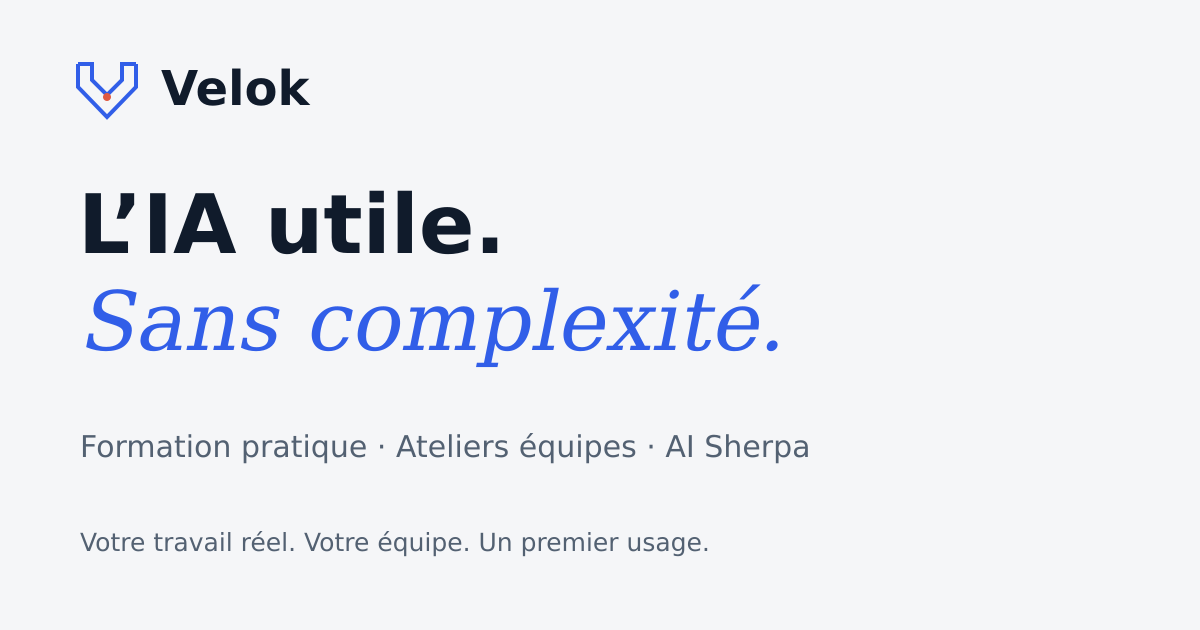
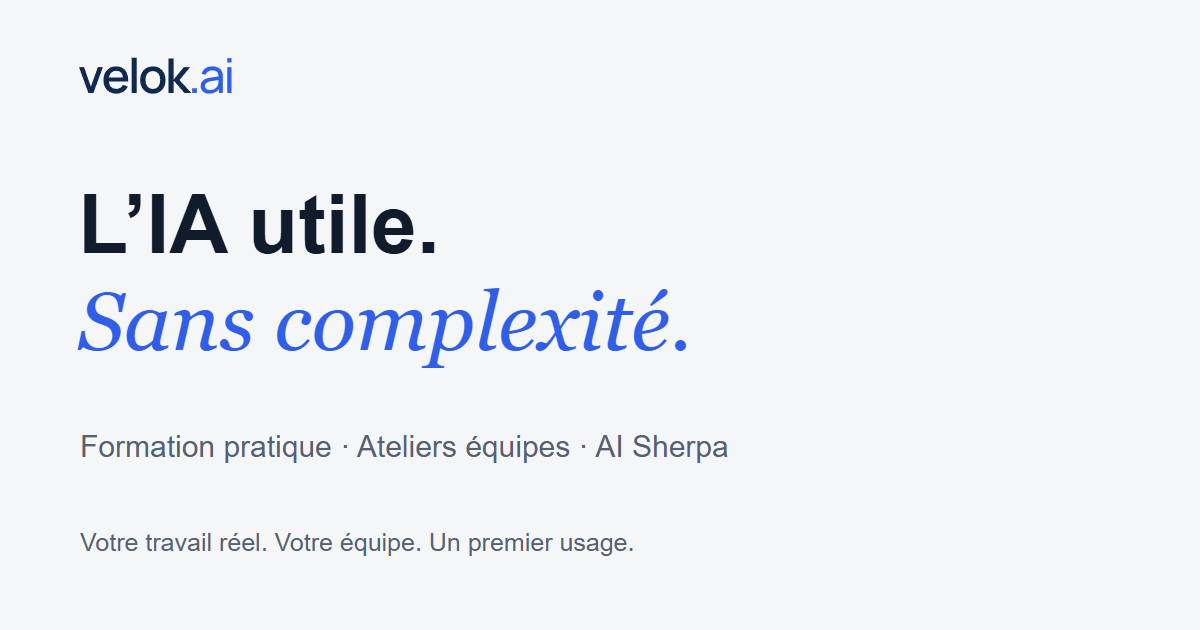
Apply approved velok.ai wordmark across French and English website

diff --git a/app/globals.css b/app/globals.css
@@ -55,14 +55,16 @@ a { color: inherit; text-decoration: none; }
   letter-spacing: -0.04em;
   width: max-content;
 }
-.brand-mark { height: 34px; width: 34px; }
-.brand-mark path {
-  stroke: var(--signal-blue);
-  stroke-linecap: round;
-  stroke-linejoin: round;
-  stroke-width: 3.1;
+.velok-wordmark {
+  color: var(--midnight);
+  font-family: 'Manrope Variable', sans-serif;
+  font-weight: 600;
+  letter-spacing: -0.048em;
+  line-height: 1;
+  white-space: nowrap;
 }
-.brand-mark circle { fill: var(--ember); }
+.velok-wordmark-domain { color: var(--signal-blue); font-weight: 500; }
+.brand-light .velok-wordmark { color: #fff; }
 .primary-nav {
   align-items: center;
   display: flex;
@@ -556,7 +558,6 @@ h1 em {
 .final-cta small { color: rgb(255 255 255 / 66%); display: block; font-size: 0.76rem; margin-top: 18px; }
 .site-footer { background: var(--graphite); color: white; padding: 68px max(32px, calc((100vw - min(1320px, calc(100vw - 64px))) / 2)) 30px; }
 .footer-lead { align-items: start; display: flex; justify-content: space-between; }
-.brand-light .brand-mark path { stroke: #9fb7ff; }
 .footer-lead p { color: rgb(255 255 255 / 60%); font-family: 'Source Serif 4 Variable', Georgia, serif; font-size: 1.35rem; margin: 0; }
 .site-footer nav { border-bottom: 1px solid rgb(255 255 255 / 14%); border-top: 1px solid rgb(255 255 255 / 14%); display: grid; gap: 20px; grid-template-columns: repeat(3, 1fr); margin-top: 58px; padding: 30px 0; }
 .site-footer nav a { color: rgb(255 255 255 / 72%); font-size: 0.78rem; }

diff --git a/components/site-shell.tsx b/components/site-shell.tsx
@@ -1,3 +1,4 @@
+import { VelokWordmark } from '@/components/velok-wordmark';
 import { LanguageSwitch } from '@/components/language-switch';
 import Image from 'next/image';
 import Link from 'next/link';
@@ -6,20 +7,6 @@ import type { ReactNode } from 'react';
 export const auditMailto =
   'mailto:david@velok.ai?subject=Audit%20des%20op%C3%A9rations%20%E2%80%94%20Velok';
 
-export function VelokMark() {
-  return (
-    <svg
-      aria-hidden="true"
-      className="brand-mark"
-      viewBox="0 0 48 48"
-      fill="none"
-    >
-      <path d="M8 9v12.5L24 38l16-16.5V9" />
-      <path d="M8 9h8v9l8 8 8-8V9h8" />
-      <circle cx="24" cy="27" r="2.4" />
-    </svg>
-  );
-}
 
 export function VisualElement({ name }: { name: string }) {
   return (
@@ -276,8 +263,7 @@ export function SiteHeader() {
       </div>
       <header className="site-header">
         <Link className="brand" href="/" aria-label="Velok — accueil">
-          <VelokMark />
-          <span>Velok</span>
+          <VelokWordmark />
         </Link>
 
         <nav className="primary-nav" aria-label="Navigation principale">
@@ -329,8 +315,7 @@ export function SiteFooter() {
           href="/"
           aria-label="Velok — accueil"
         >
-          <VelokMark />
-          <span>Velok</span>
+          <VelokWordmark />
         </Link>
         <p>
           L’IA utile.

diff --git a/components/en/site-shell.tsx b/components/en/site-shell.tsx
@@ -1,3 +1,4 @@
+import { VelokWordmark } from '@/components/velok-wordmark';
 import { LanguageSwitch } from '@/components/language-switch';
 import Image from 'next/image';
 import Link from 'next/link';
@@ -6,20 +7,6 @@ import type { ReactNode } from 'react';
 export const auditMailto =
   'mailto:david@velok.ai?subject=Operations%20audit%20%E2%80%94%20Velok';
 
-export function VelokMark() {
-  return (
-    <svg
-      aria-hidden="true"
-      className="brand-mark"
-      viewBox="0 0 48 48"
-      fill="none"
-    >
-      <path d="M8 9v12.5L24 38l16-16.5V9" />
-      <path d="M8 9h8v9l8 8 8-8V9h8" />
-      <circle cx="24" cy="27" r="2.4" />
-    </svg>
-  );
-}
 
 export function VisualElement({ name }: { name: string }) {
   return (
@@ -276,8 +263,7 @@ export function SiteHeader() {
       </div>
       <header className="site-header">
         <Link className="brand" href="/en" aria-label="Velok — home">
-          <VelokMark />
-          <span>Velok</span>
+          <VelokWordmark />
         </Link>
 
         <nav className="primary-nav" aria-label="Main navigation">
@@ -329,8 +315,7 @@ export function SiteFooter() {
           href="/en"
           aria-label="Velok — home"
         >
-          <VelokMark />
-          <span>Velok</span>
+          <VelokWordmark />
         </Link>
         <p>
           Useful AI.

diff --git a/components/velok-wordmark.tsx b/components/velok-wordmark.tsx
@@ -1,0 +1,7 @@
+export function VelokWordmark() {
+  return (
+    <span className="velok-wordmark" aria-hidden="true">
+      velok<span className="velok-wordmark-domain">.ai</span>
+    </span>
+  );
+}

diff --git a/README.md b/README.md
@@ -48,6 +48,9 @@ Pull requests get a preview URL in the PR checks. Environment variables live in 
 The website V2 approved on 5 October 2026 uses ivory/navy/blue styling in app/globals.css
 and the 3D workplace illustrations in public/brand/v2/. Shared brand rules and positioning
 remain in github.com/Velok-ai/shared, folder 06-brand.
+The approved lowercase velok.ai wordmark is shared by both languages through
+components/velok-wordmark.tsx. Outlined SVG and transparent PNG assets are in public/brand/logo;
+the favicon and social cards use the same approved typography and colours.
 
 ## Languages
 

diff --git a/public/brand/logo/README.md b/public/brand/logo/README.md
@@ -1,0 +1,11 @@
+# Approved velok.ai wordmark
+
+Approved by David on 5 October 2026. Brand rules are maintained in Velok-ai/shared, 06-brand/BRAND.md.
+
+- velok-ai.svg / velok-ai.png: navy + blue, transparent.
+- velok-ai-light.svg / velok-ai-light.png: white + blue, transparent.
+- SVG lettering is outlined; no installed font is required.
+- Manrope 600 / 500, tracking -0.048em.
+- Navy #10294d; blue #315ee8.
+- Use the light version on navy. Preserve proportions and colours.
+- The separate V emblem is retired.
